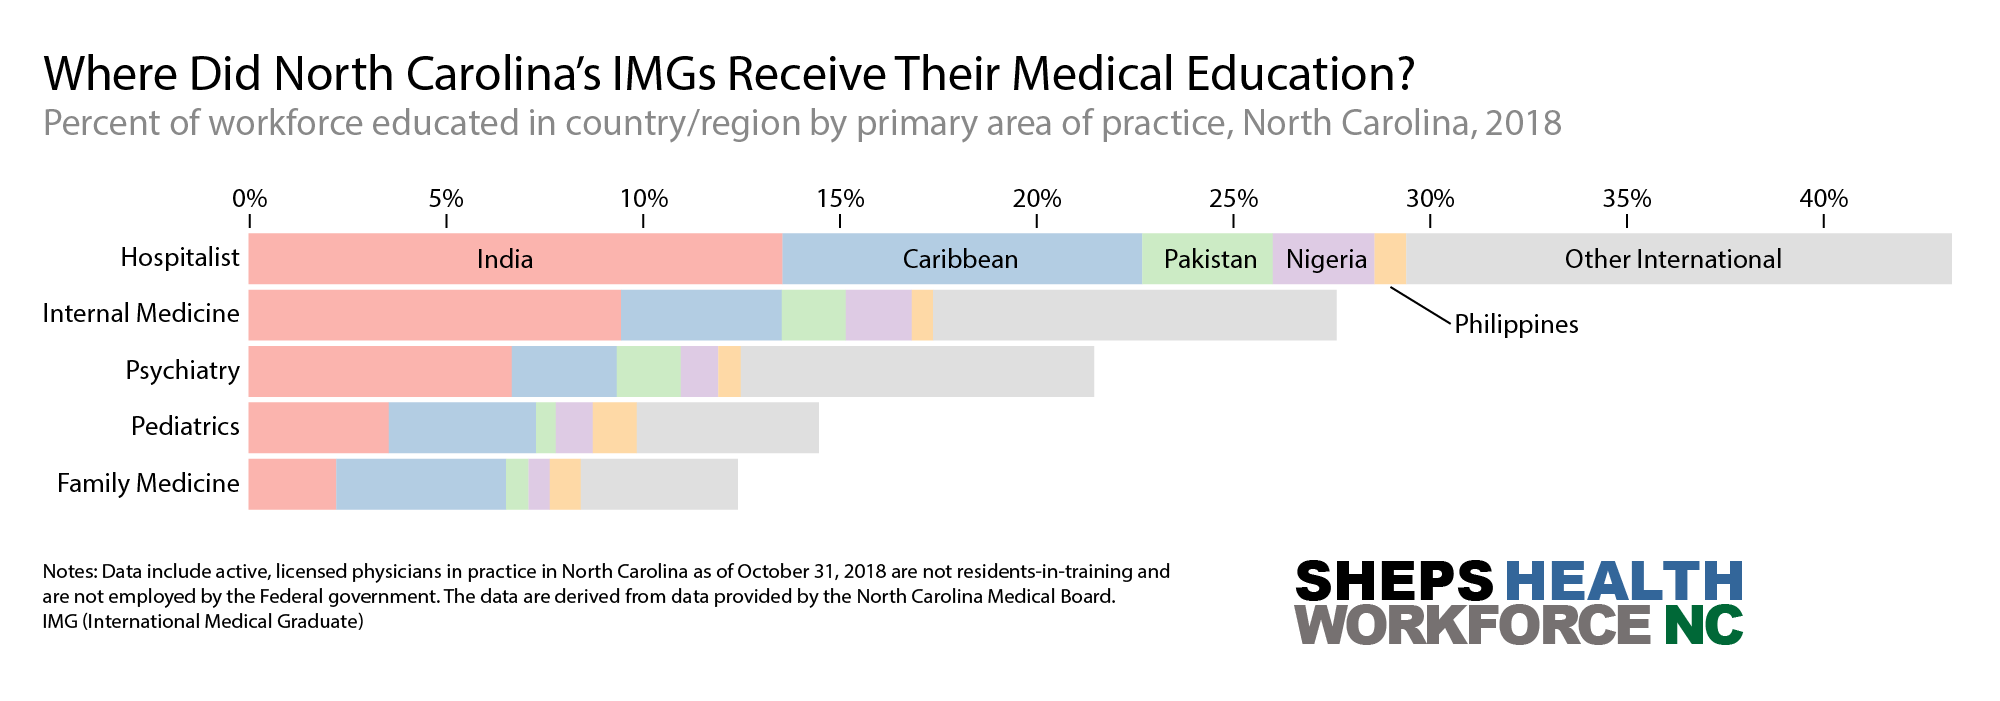
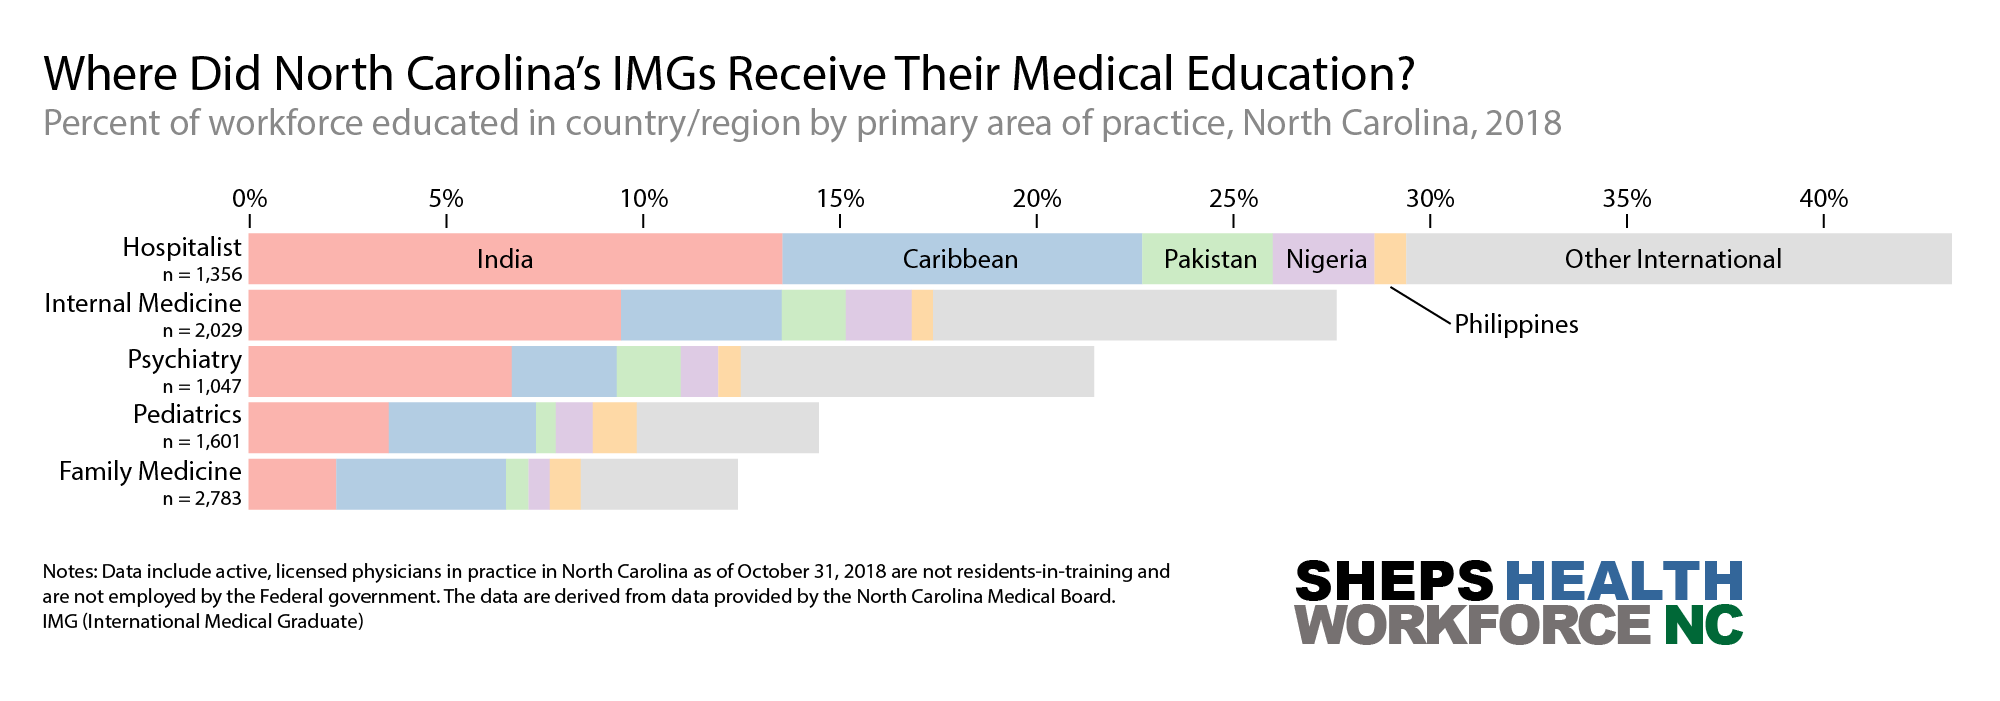
added ns to img pic

Changed region(s): [[0.0, 0.3295, 0.124, 0.719]]

diff --git a/public/growth_of_imgs/index.html b/public/growth_of_imgs/index.html
@@ -48,7 +48,7 @@
   
     <ul>
 <li>International Medical Graduates (IMGs) are physicians who received their medical education outside of the United States, Puerto Rico, or Canada. As of 2018, 15.5% of North Carolina physicians are IMGs.</li>
-<li>The number of IMGs in North Carolina has more than doubled since 2000, but the number being educated in the Caribbean has quintupled. Of course, most of the North Carolina physicians educated in the Caribbean are United States citizens.</li>
+<li>The number of IMGs in North Carolina has more than doubled since 2000, but the number being educated in the Caribbean has quintupled. Most of the physicians educated in the Caribbean are United States citizens.</li>
 <li>India the is largest source of IMGs for North Carolina.</li>
 </ul>
 <table class="pretty-table normal">

diff --git a/source/_posts/growth_of_imgs.md b/source/_posts/growth_of_imgs.md
@@ -12,7 +12,7 @@ keywords: physician, international medical graduate, img, growth, hospitalist
 mainClass: blog
 ---
 * International Medical Graduates (IMGs) are physicians who received their medical education outside of the United States, Puerto Rico, or Canada. As of 2018, 15.5% of North Carolina physicians are IMGs.
-* The number of IMGs in North Carolina has more than doubled since 2000, but the number being educated in the Caribbean has quintupled. Of course, most of the North Carolina physicians educated in the Caribbean are United States citizens.
+* The number of IMGs in North Carolina has more than doubled since 2000, but the number being educated in the Caribbean has quintupled. Most of the physicians educated in the Caribbean are United States citizens.
 * India the is largest source of IMGs for North Carolina.
 
 <table class="pretty-table normal">
